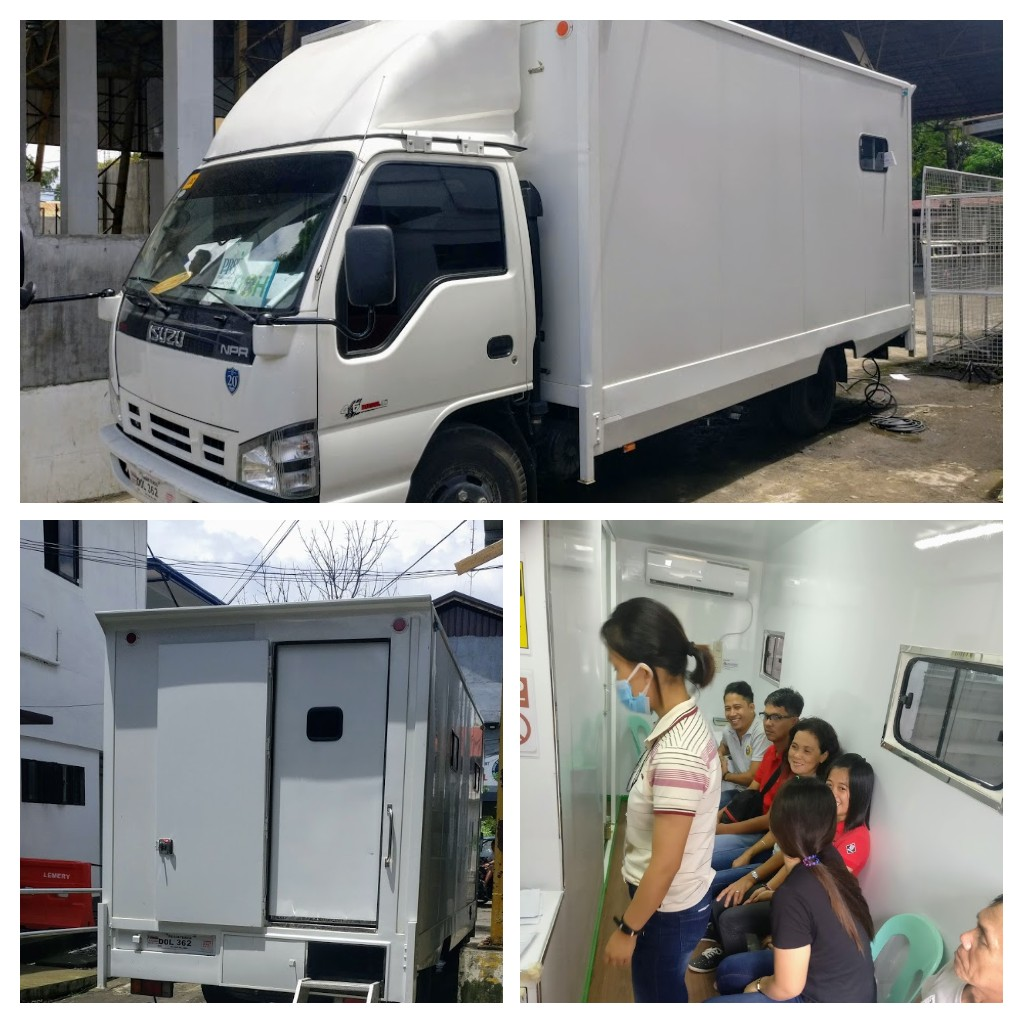
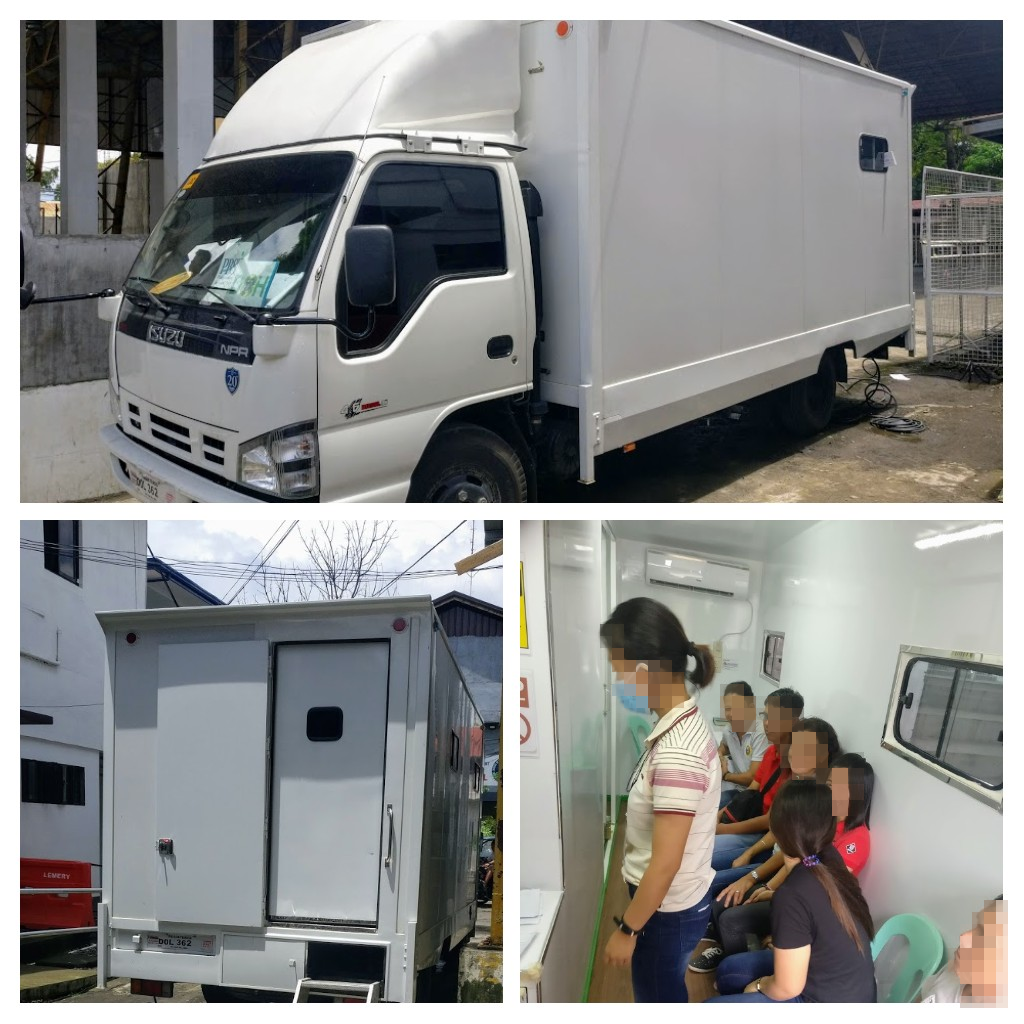
changes

Changed region(s): [[0.6875, 0.6562, 0.8438, 0.8125], [0.9375, 0.875, 1.0, 1.0], [0.5938, 0.625, 0.6562, 0.6875]]

diff --git a/_posts/2019-04-15-scaling-up-tb-screening-with-ai.md b/_posts/2019-04-15-scaling-up-tb-screening-with-ai.md
@@ -78,7 +78,7 @@ Individuals arrive inside the van on a first come first serve basis. They are gi
 Once all the x-rays have been captured, the vans return to their stay in the same village. They visit a new village/ health center on subsequent weekdays. On Friday evening, all the vans return to Manila. Thereafter, all the X-rays captured in the 4 vans over the week are sent to a Radiologist for review. The lead time for the Radiologist report is between 3 working days and can extend to 2 weeks. The delay in reporting leads to delay in diagnosis and treatment, which can prove to be fatal for the patient and the neighborhood.
 
 <center>
-<img width='80%' src="/assets/images/tb/access-tb-van-blurred.png" alt="Access TB van"/>
+<img width='80%' src="/assets/images/tb/access-tb-van.png" alt="Access TB van"/>
 <br/>
 <small class="caption">Front & side view of AccessTB van with individuals queuing inside the van</small>
 </center>
